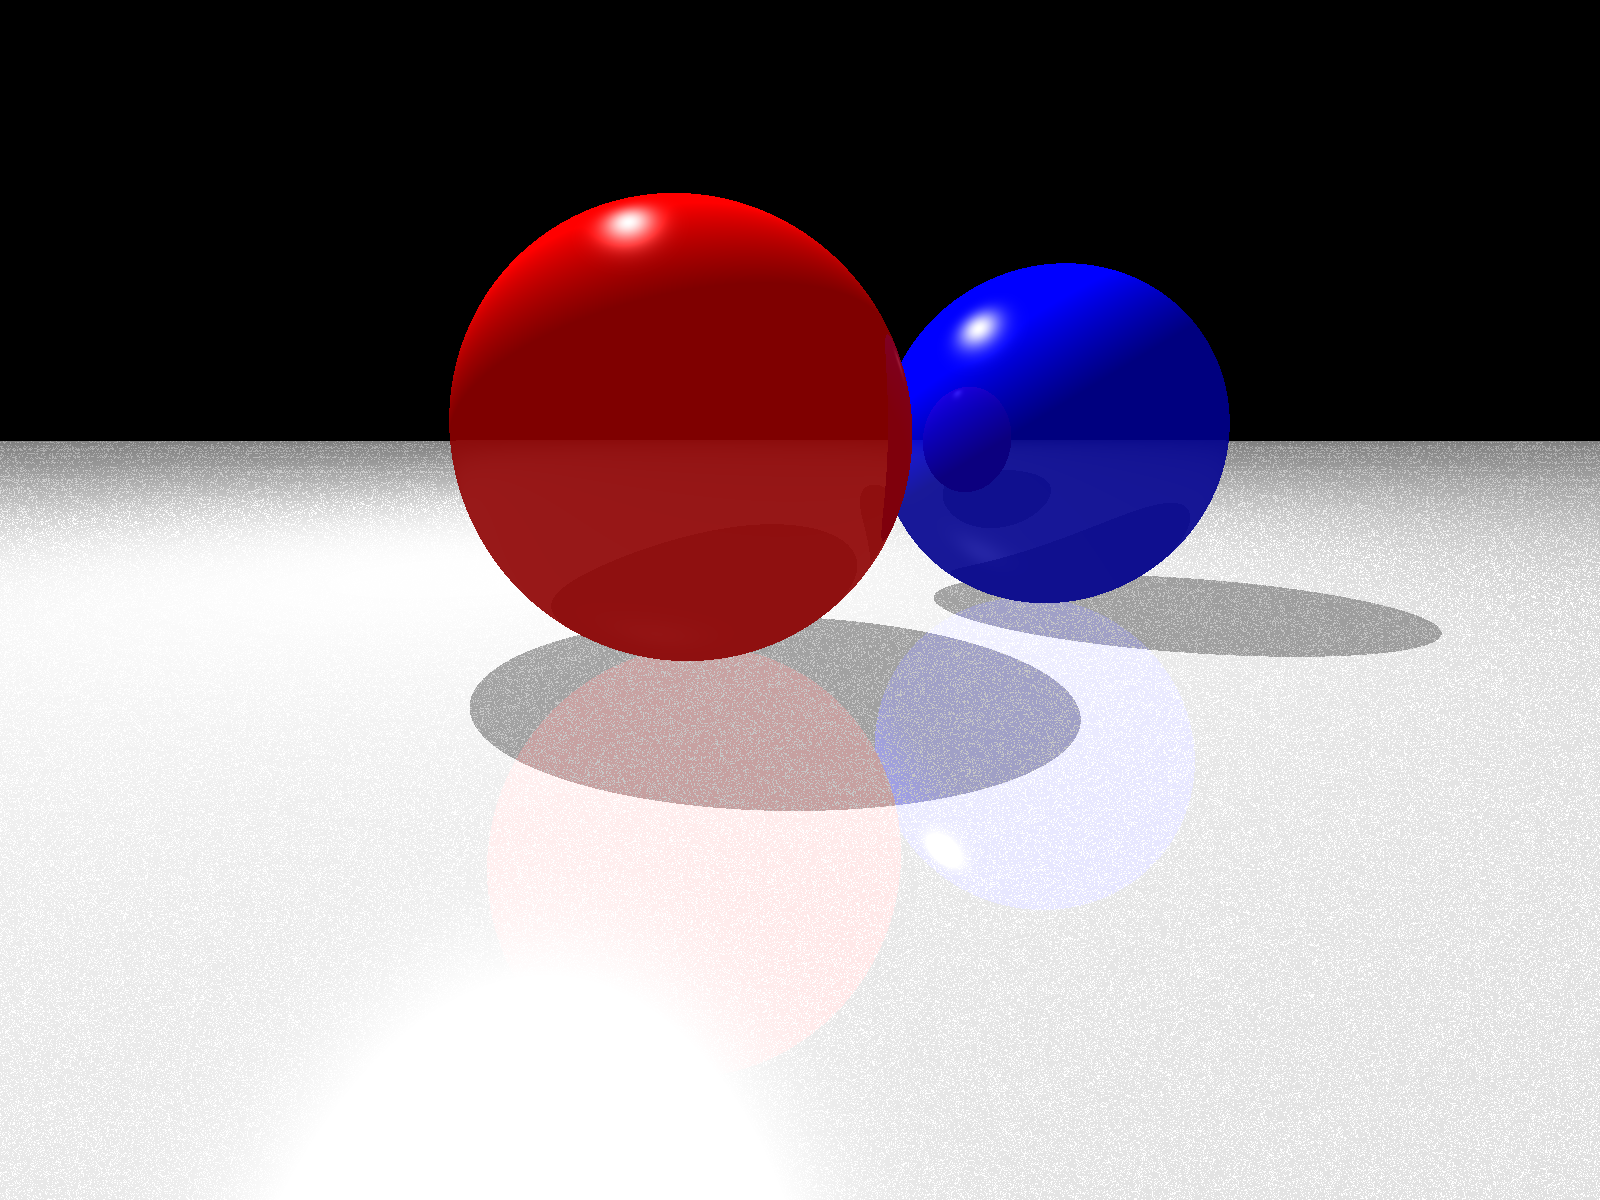
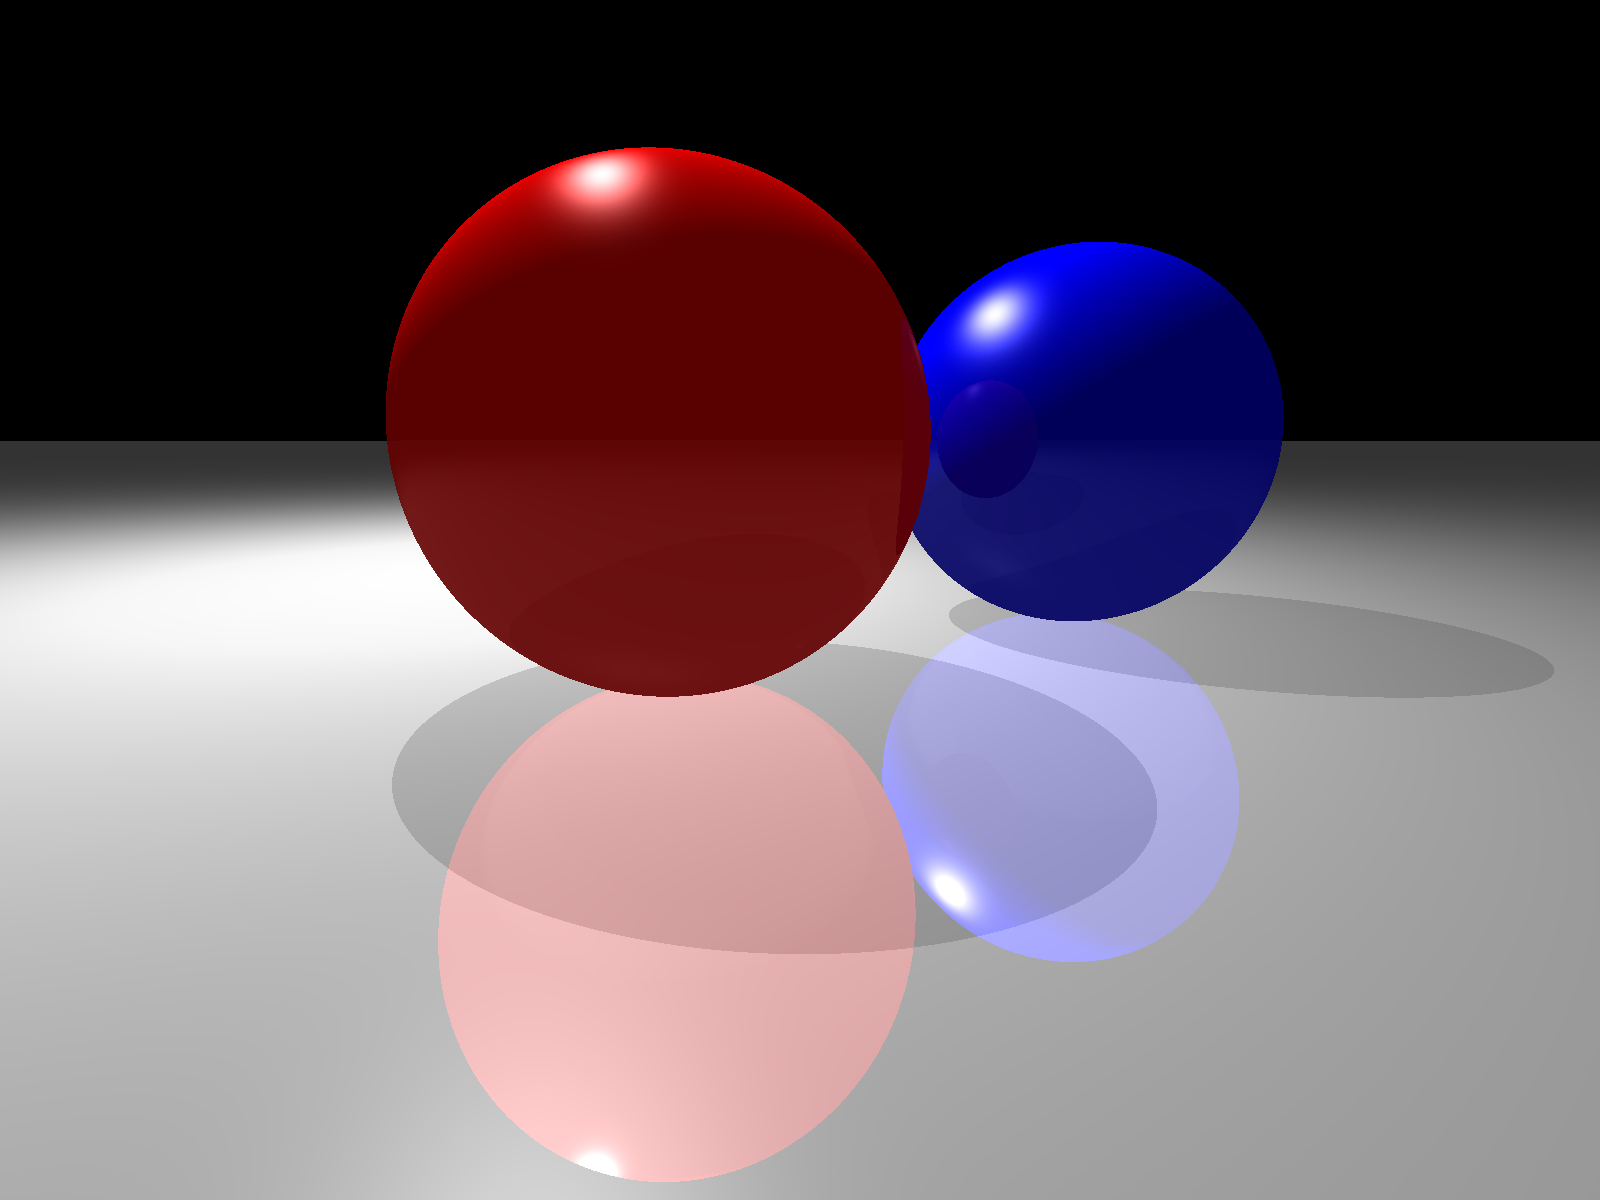
Fixed the noisy plane problem and add depth attenuation

diff --git a/clifftrace.py b/clifftrace.py
@@ -42,7 +42,7 @@ class Plane:
         self.type = "Plane"
 
     def getColour(self):
-        return "rgb(%d, %d, %d)"% (int(self.colour[0]*255), int(self.colour[1]*255), int(self.colour[2]*255))
+        return "rgb(%d, %d, %d)" % (int(self.colour[0]*255), int(self.colour[1]*255), int(self.colour[2]*255))
 
 
 def drawScene():
@@ -110,7 +110,7 @@ def new_point_pair(p1, p2):
 
 
 def unsign_sphere(S):
-    return (S/(S.dual()|einf)[0]).normal()
+    return normalised(S/(S.dual()|einf)[0])
 
 
 @numba.njit
@@ -118,7 +118,7 @@ def val_pointofXSphere(ray_val, sphere_val, origin_val):
     B = meet_val(ray_val, sphere_val)
     if gmt_func(B,B)[0] > 0.000001:
         point_vals = val_point_pair_to_end_points(B)
-        if (imt_func(point_vals[0,:],origin_val)[0] > imt_func(point_vals[1,:],origin_val)[0]):
+        if imt_func(point_vals[0,:],origin_val)[0] > imt_func(point_vals[1,:],origin_val)[0]:
             return point_vals[0,:]
     output = np.zeros(32)
     output[0] = -1
@@ -139,9 +139,13 @@ def val_pointofXplane(ray_val, plane_val, origin_val):
     pX = val_intersect_line_and_plane_to_point(ray_val, plane_val)
     if pX[0] == -1.:
         return pX
-    if imt_func(ray_val, val_normalised(omt_func(origin_val, omt_func(pX, ninf_val))))[0] > 0:
+    new_line = omt_func(origin_val, omt_func(pX, ninf_val))
+    if abs((gmt_func(new_line, new_line))[0]) < 0.00001:
+        return np.array([-1.])
+    if imt_func(ray_val, val_normalised(new_line))[0] > 0:
         return pX
     return np.array([-1.])
+
 
 def pointofXplane(ray, plane, origin):
     p = val_pointofXplane(ray.value, plane.value, origin.value)
@@ -149,19 +153,25 @@ def pointofXplane(ray, plane, origin):
         return None
     return layout.MultiVector(value=p)
 
+
 def cosangle_between_lines(l1, l2):
-    return (l1 | l2)[0]#/(math.sqrt(abs((l1**2)[0]))*math.sqrt(abs((l2**2)[0]))))[0]
+    return (l1 | l2)[0]
+
+
+def getfattconf(inner_prod, a1, a2, a3):
+    return min(1./(a1 + a2 * np.sqrt(-inner_prod) - a3*inner_prod), 1.)
+
+
+def getfatt(d, a1, a2, a3):
+    return min(1./(a1 + a2*d + a3*d*d), 1.)
 
 
 def PointsFromPP(mv):
-    #P = 0.5*(1+(1/math.sqrt((mv**2)[0]))*mv)
-    #temp = mv|einf
-    #return(normalise_n_minus_1(-~P*temp*P) , normalise_n_minus_1(P*temp*~P))
     return point_pair_to_end_points(mv)
 
 
 def reflect_in_sphere(ray, sphere, pX):
-        return(normalised((pX|(sphere*ray*sphere))^einf))
+        return normalised((pX|(sphere*ray*sphere))^einf)
 
 
 def intersects(ray, scene, origin):
@@ -192,11 +202,17 @@ def trace_ray(ray, scene, origin, depth):
         return background
     obj = scene[index]
     # sc = GAScene()
-    toL = layout.MultiVector(value=val_normalised(omt_func(omt_func(pX.value, up(L).value), einf.value)))
+    upl_val = val_up(L.value)
+    toL = layout.MultiVector(value=val_normalised(omt_func(omt_func(pX.value, upl_val), einf.value)))
+    d = layout.MultiVector(value=imt_func(pX.value, upl_val))[0]
+
+    # TODO: Investigate why the inclusion of the ambient term leads to noise in the plane
+
     if options['ambient']:
-        pixel_col += ambient*obj.ambient*obj.colour
-    if(intersects(toL, scene[:index] + scene[index+1:], pX)[0] is not None):
-        Satt *= 0.3
+        pixel_col += ambient * obj.ambient * obj.colour
+
+    if intersects(toL, scene[:index] + scene[index+1:], pX)[0] is not None:
+        Satt *= 0.8
     if obj.type == "Sphere":
         reflected = -1.*reflect_in_sphere(ray, obj.object, pX)
     else:
@@ -204,17 +220,18 @@ def trace_ray(ray, scene, origin, depth):
 
     norm = normalised(reflected - ray)
 
+    fatt = getfattconf(d, a1, a2, a3)
+
     if options['specular']:
-        pixel_col += Satt * obj.specular * \
+        pixel_col += Satt * fatt * obj.specular * \
                      max(cosangle_between_lines(norm, normalised(toL-ray)), 0) ** obj.spec_k * colour_light
 
     if options['diffuse']:
-        pixel_col += Satt * obj.diffuse * max(cosangle_between_lines(norm, toL), 0) * obj.colour
+        pixel_col += Satt * fatt * obj.diffuse * max(cosangle_between_lines(norm, toL), 0) * obj.colour
 
     if depth >= max_depth:
         return pixel_col
-
-    pixel_col += obj.reflection * trace_ray(reflected, scene, pX, depth + 1)
+    pixel_col += obj.reflection * trace_ray(reflected, scene, pX, depth + 1) / ((depth + 1) ** 2)
     return pixel_col
 
 
@@ -225,20 +242,25 @@ def RMVR(mv):
 # Light position and color.
 L = -10.*e1 + 30.*e3 + 4.*e2
 colour_light = np.ones(3)
-ambient = 0.5
+
 
 # Shading options
+a1 = 0.02
+a2 = 0.0
+a3 = 0.002
 w = 1600
 h = 1200
 options = {'ambient': True, 'specular': True, 'diffuse': True}
-max_depth = 1
-background = np.array([0., 0., 0.])
+ambient = 0.5
+k = 1.  # Magic constant to scale everything by the same amount!
+max_depth = 2
+background = np.zeros(3) # [66./520., 185./510., 244./510.]
 
 # Add objects to the scene:
 scene = []
-scene.append(Sphere(-2.*e1 + -5.2*e2 + 4.*e3, 4., np.array([1., 0., 0.]), 1., 100., 1., 1., 0.1))
-scene.append(Sphere(6.*e1 + 4.*e3, 4., np.array([0., 0., 1.]), 1., 100., 1., 1., 0.1))
-scene.append(Plane(20.*e2+ e1, 20.*e2, 21.*e2, np.array([1., 1., 1.]), 0.5, 100., 1., 0.5, 0.3))
+scene.append(Sphere(-2.*e1 - 7.2*e2 + 4.*e3, 4., np.array([1., 0., 0.]), k*1., 50., k*0.7, k*1., k*0.1))
+scene.append(Sphere(6.*e1 - 2.0*e2 + 4.*e3, 4., np.array([0., 0., 1.]), k*1., 50., k*0.7, k*1., k*0.1))
+scene.append(Plane(20.*e2+ e1, 20.*e2, 21.*e2, np.array([0.8, 0.8, 0.8]), k*0.3, 100., k*0.5, k*1., k*0.6))
 
 # Camera definitions
 cam = 4.*e3 - 20.*e2
@@ -252,7 +274,7 @@ ymax = xmax*(h*1.0/w)
 
 start_time = time.time()
 
-#Get all of the required initial transformations
+# Get all of the required initial transformations
 optic_axis = new_line(cam, lookat)
 original = new_line(eo, e2)
 MVR = generate_translation_rotor(cam)*rotor_between_lines(original, optic_axis)
@@ -263,21 +285,33 @@ Ptl = f*1.0*e2 - e1*xmax + e3*ymax
 
 drawScene()
 
-img = np.zeros((h, w, 3))
-initial = RMVR(up(Ptl))
-for i in range(0, w):
-    if i % 10 == 0:
-        print(i/w * 100, "%")
-    point = initial
-    line = normalised(upcam ^ initial ^ einf)
-    for j in range(0, h):
-        img[j, i, :] = np.clip(trace_ray(line, scene, upcam, 0), 0, 1)*255.
-        point = apply_rotor(point, dTy)
-        line = normalised(upcam ^ point ^ einf)
 
-    initial = apply_rotor(initial, dTx)
+def render():
+    img = np.zeros((h, w, 3))
+    initial = RMVR(up(Ptl))
+    clipped = 0
+    for i in range(0, w):
+        if i % 10 == 0:
+            print(i/w * 100, "%")
+        point = initial
+        line = normalised(upcam ^ initial ^ einf)
+        for j in range(0, h):
+            value = trace_ray(line, scene, upcam, 0)
+            new_value = np.clip(value, 0, 1)
+            if np.any(value > 1.) or np.any(value < 0.):
+                clipped += 1
+            img[j, i, :] = new_value * 255.
+            point = apply_rotor(point, dTy)
+            line = normalised(upcam ^ point ^ einf)
 
-Image.fromarray(img.astype('uint8'), 'RGB').save('fig.png')
+        initial = apply_rotor(initial, dTx)
+    print("Total number of pixels clipped = %d" % clipped)
+    return img
+
+
+im1 = Image.fromarray(render().astype('uint8'), 'RGB')
+im1.save('fig.png')
+
 
 print("\n\n")
 print("--- %s seconds ---" % (time.time() - start_time))
